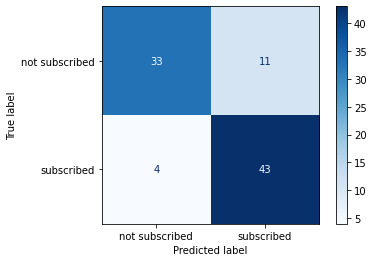
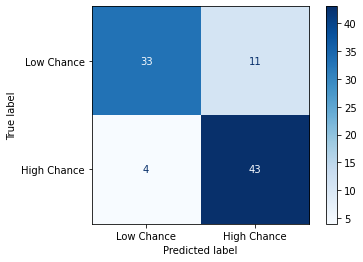
updated

diff --git a/heart_attack_train.py b/heart_attack_train.py
@@ -6,17 +6,17 @@ Created on Mon Jul 25 09:27:37 2022
 """
 
 from sklearn.ensemble import RandomForestClassifier,GradientBoostingClassifier
+from sklearn.metrics import classification_report,confusion_matrix
 from sklearn.preprocessing import MinMaxScaler,StandardScaler
 from sklearn.model_selection import train_test_split
 from sklearn.linear_model import LogisticRegression
 from sklearn.neighbors import KNeighborsClassifier
-from sklearn.metrics import classification_report,confusion_matrix
+from sklearn.metrics import ConfusionMatrixDisplay
 from sklearn.model_selection import GridSearchCV
 from sklearn.tree import DecisionTreeClassifier
 from sklearn.impute import KNNImputer
 from sklearn.pipeline import Pipeline
 from sklearn.svm import SVC
-from sklearn.metrics import ConfusionMatrixDisplay
 
 import matplotlib.pyplot as plt
 import scipy.stats as ss
@@ -82,7 +82,6 @@ df.isna().sum() #only caa and thall have NaNs
 
 # 1) Outliers
 # still within the range
-
 
 # 2) Cleaning NaNs
 #KNN
@@ -250,7 +249,7 @@ print(cr)
 
 cm=confusion_matrix(y_test,y_pred)
 
-labels=['not subscribed','subscribed']
+labels=['Low Chance','High Chance']
 disp=ConfusionMatrixDisplay(confusion_matrix=cm,display_labels=labels)
 disp.plot(cmap=plt.cm.Blues)
 plt.show()
